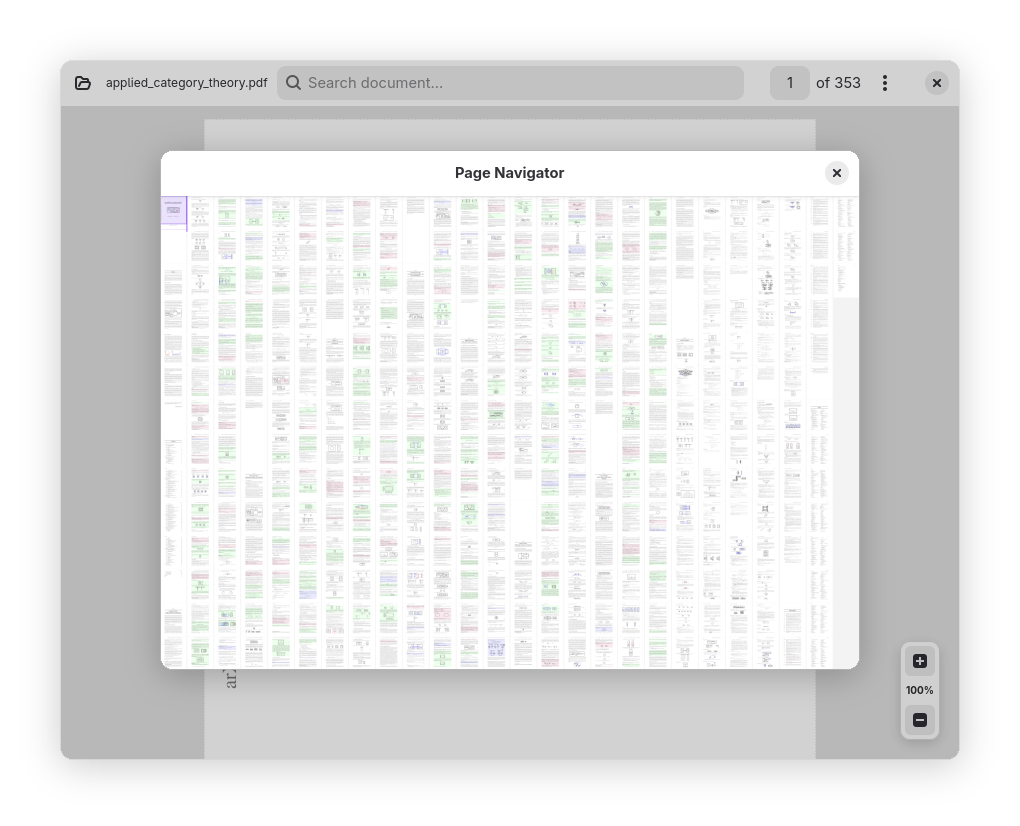
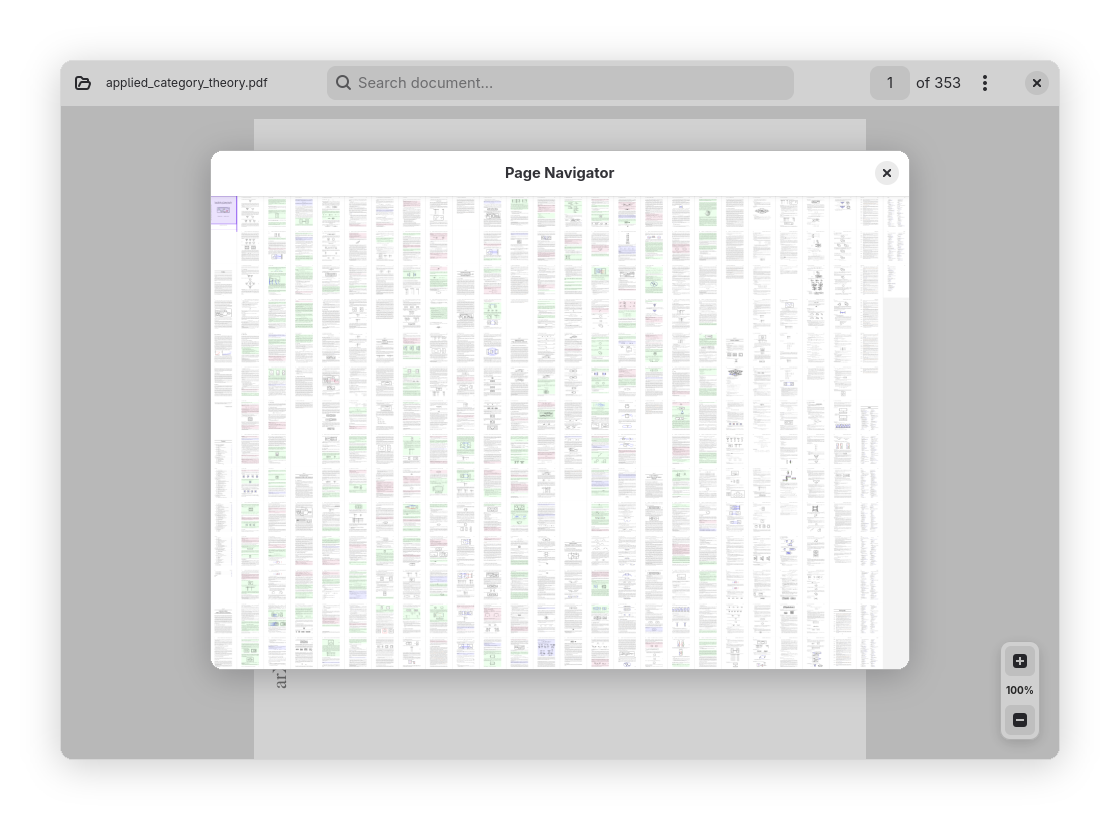
fix(renderer): remove hardcoded 0.2 zoom for minimap thumbnails

diff --git a/pdf_viewer/ui/window.py b/pdf_viewer/ui/window.py
@@ -51,7 +51,7 @@ class MainWindow(Adw.ApplicationWindow):
         self.set_title("PDF Viewer")
         self.backend = backend
         self.debug_mode = debug_mode
-        self.set_default_size(900, 700)
+        self.set_default_size(1000, 700)
         self.initial_state = state
         self.screenshot_path = screenshot_path
         self.follow_link = follow_link
@@ -897,6 +897,19 @@ class MainWindow(Adw.ApplicationWindow):
                 overflow: hidden;
                 padding: 0px;
                 box-shadow: 0px 4px 16px rgba(0, 0, 0, 0.12), 0px 1px 3px rgba(0, 0, 0, 0.08);
+            }
+            .portal-overlay-pin {
+                min-width: 28px;
+                min-height: 28px;
+                padding: 4px;
+            }
+            .portal-overlay-pill {
+                background-color: rgba(60, 60, 60, 0.85);
+                color: #ffffff;
+                border-radius: 12px;
+                padding: 3px 10px;
+                font-size: 11px;
+                font-weight: 500;
             }
         """
 

diff --git a/pdf_viewer/core/renderer.py b/pdf_viewer/core/renderer.py
@@ -151,7 +151,7 @@ class RenderWorker:
                     ) = args
 
                     page = doc_model.get_page(page_index)
-                    physical_zoom = zoom * scale_factor if not is_minimap else 0.2
+                    physical_zoom = zoom * scale_factor
 
                     mat = fitz.Matrix(physical_zoom, physical_zoom)
                     rect_to_render = crop_rect if crop_rect is not None else page.rect
